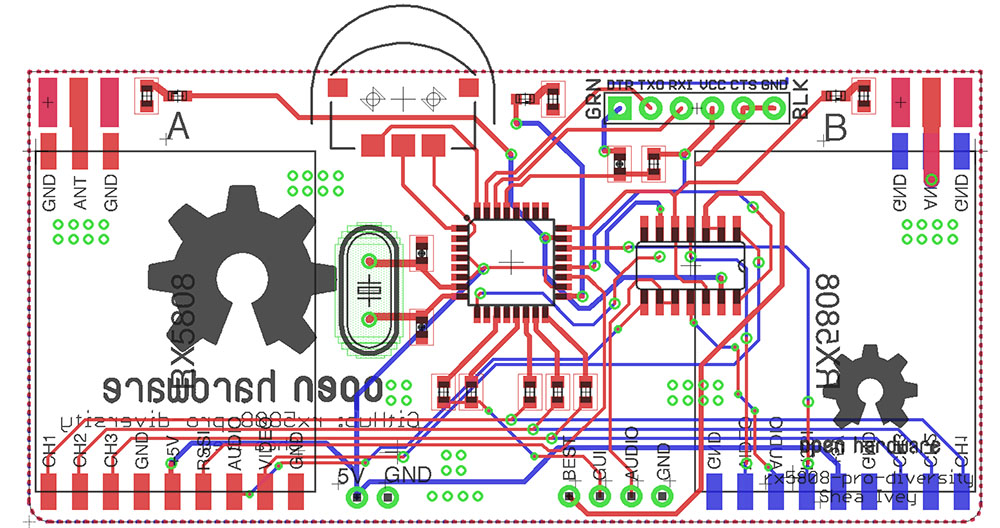
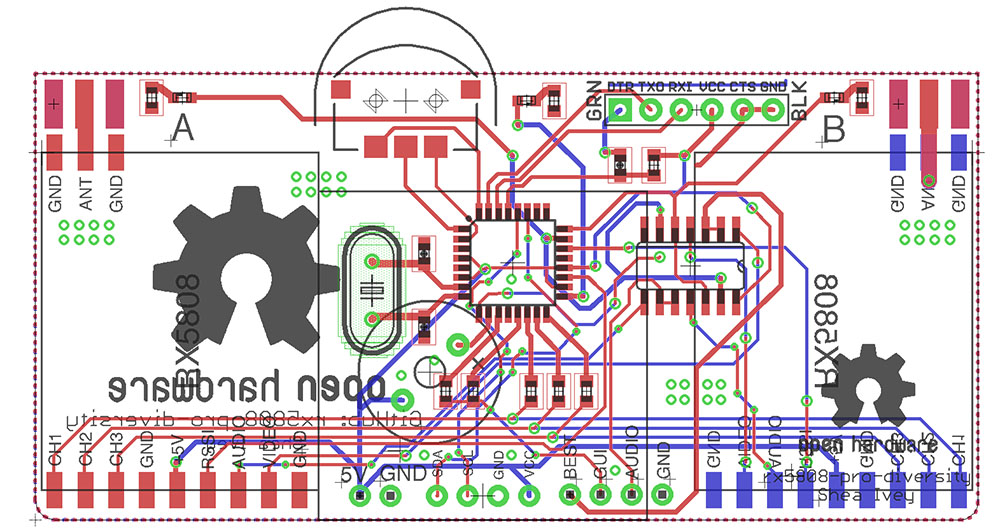
Adding optional I2C and Buzzer to the board.

diff --git a/docs/diy-custom-board.md b/docs/diy-custom-board.md
@@ -1,5 +1,5 @@
 #DIY Advanced - Custom Board
-This requires ordering a board from [https://oshpark.com/shared_projects/A27Y4Afh](https://oshpark.com/shared_projects/A27Y4Afh)
+This requires ordering a board from [https://oshpark.com/shared_projects/Wa2PTZE2](https://oshpark.com/shared_projects/Wa2PTZE2)
 You will also need a programmer to get the Arduino bootloader onto the MEGA328 chip. After that you can use the FTDI pins to program the chip from the Arduino IDE. (Select Arduino Pro Mini 5v 328 as the board)
 
 ####BOM
@@ -17,6 +17,8 @@ You will also need a programmer to get the Arduino bootloader onto the MEGA328 c
 - 1x SWITCH-SPDT-SMD
 - 1x 4066D SO14 digital switch chip SMD
 - 1x MEGA 328 TQFP
+- 1x Active Buzzer (Optional)
+- 1x OLED 128x64 display I2C (5v tollerant) (Optional - If you dont want to do TV_Out)
 
 ####Schematic
 ![alt text](img/rx5808-pro-diversity-schematic-eagle.jpg)
